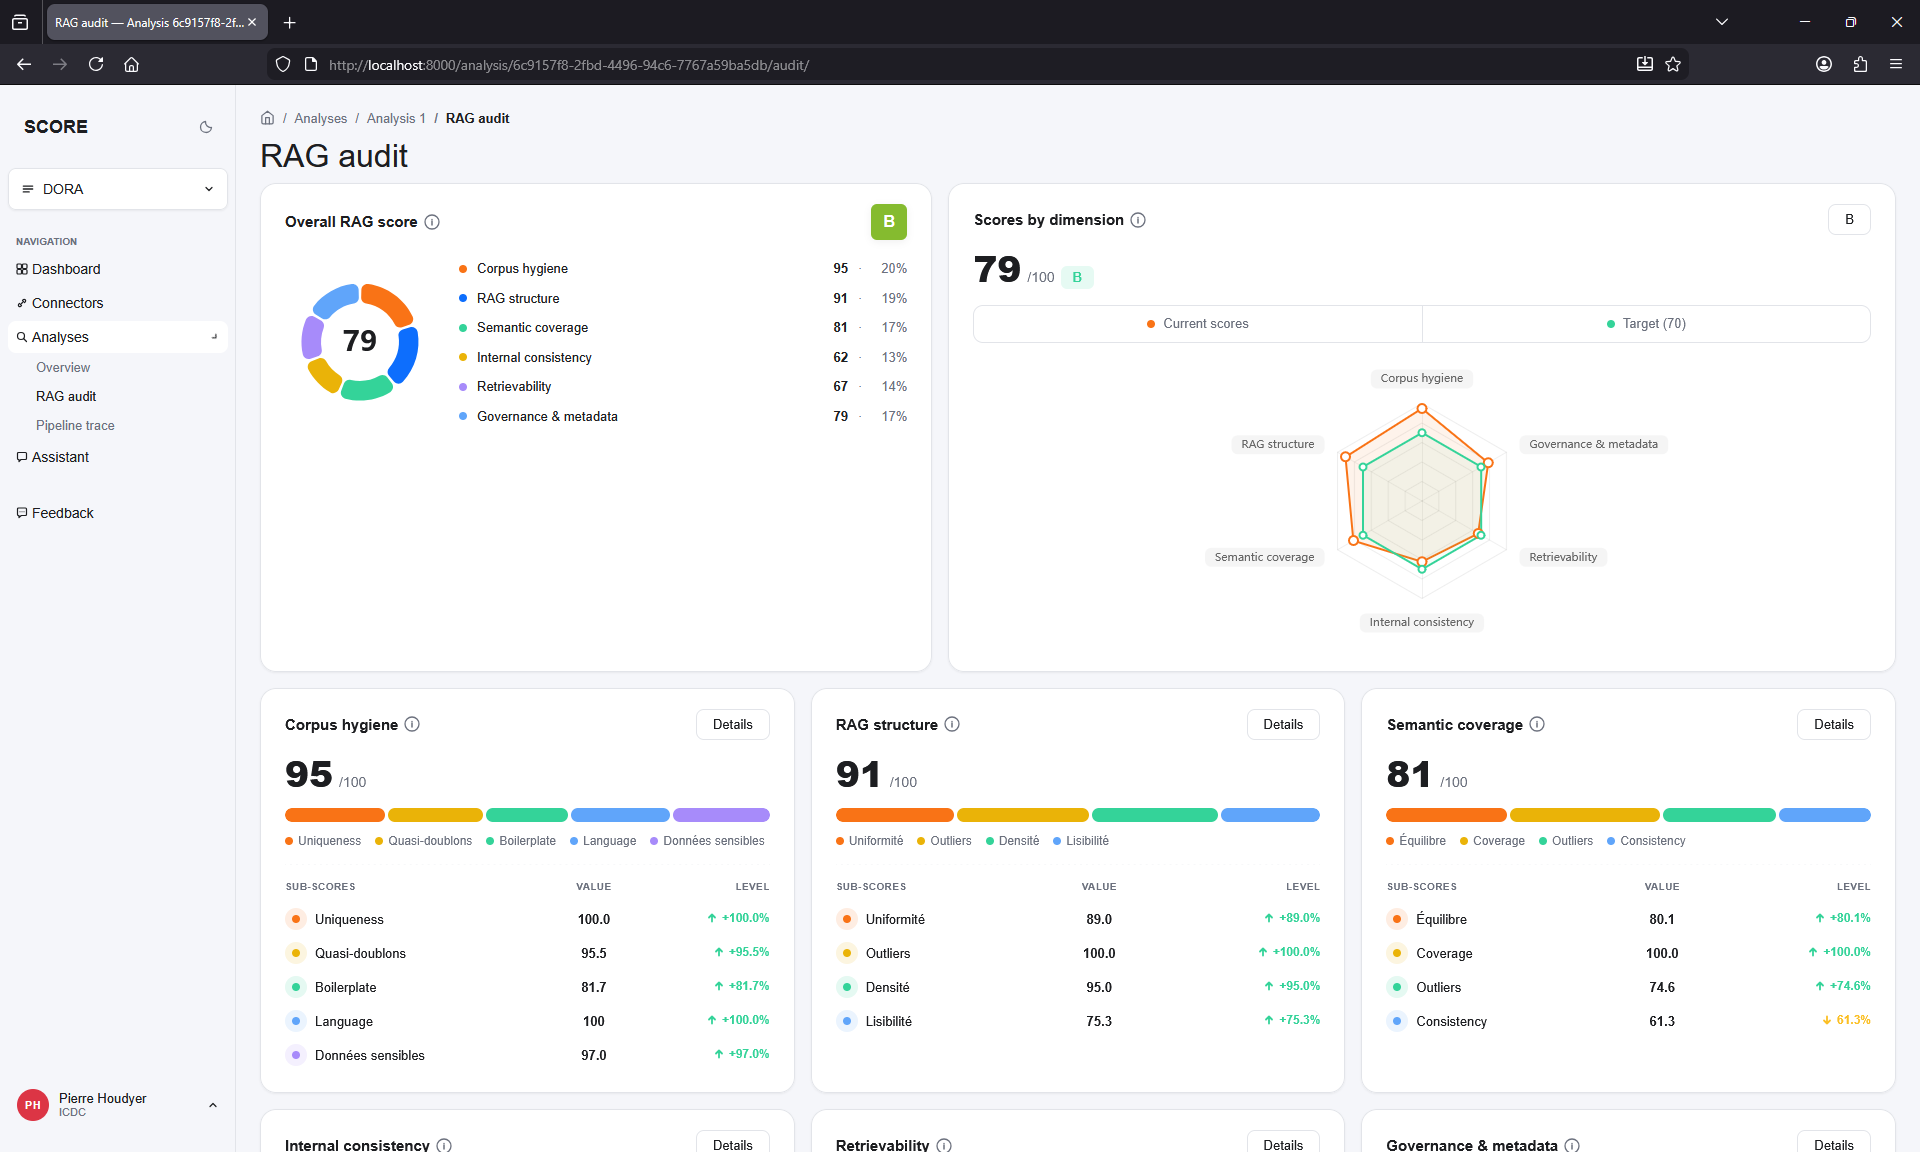
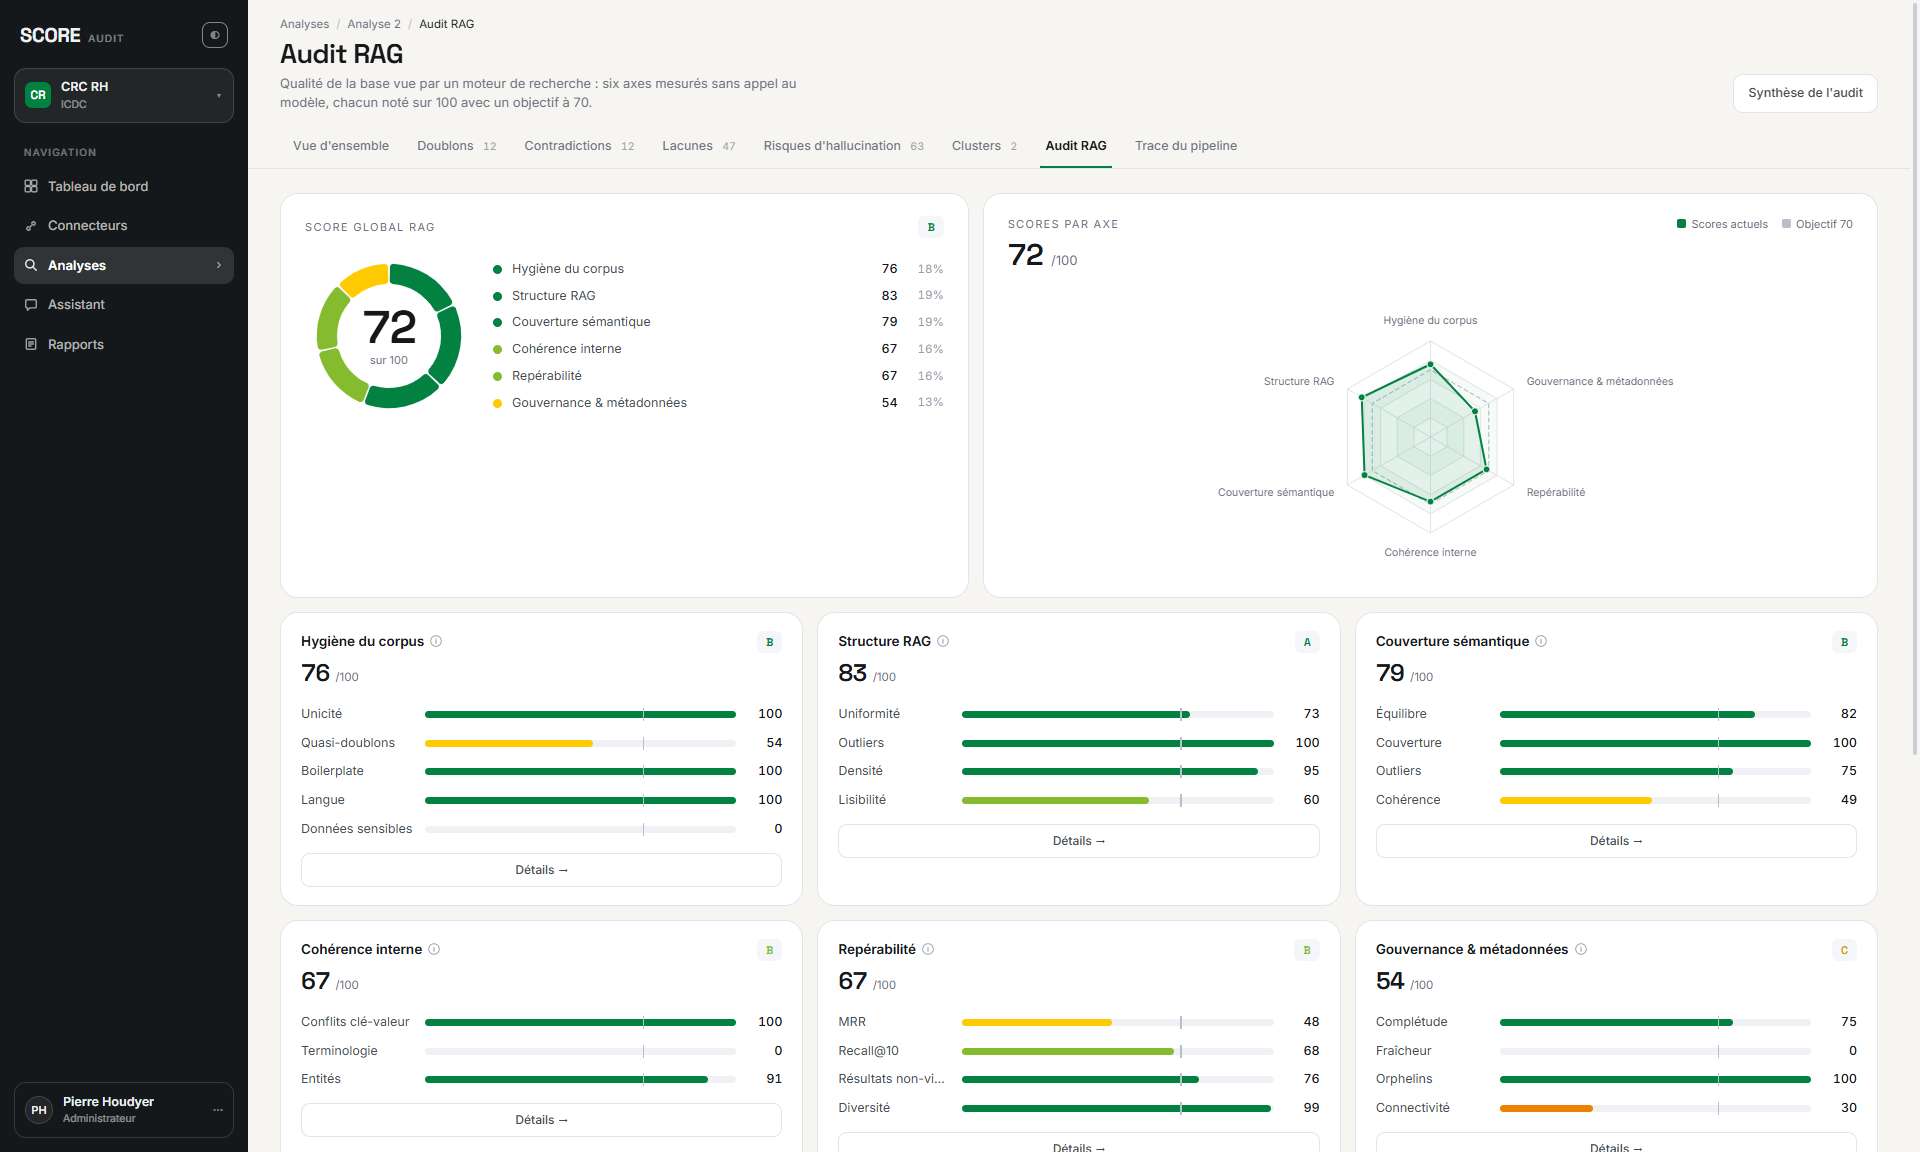
docs: retake the README screenshots on the redesigned interface
The six existing captures predated the Tailwind redesign and showed the
Bootstrap interface, which no longer exists. All are retaken at the same
1920x1152 framing, and a seventh covers the knowledge graph — 6134
entities and 13712 relations on the reference corpus. The one-line
description now names that feature, which until now only appeared as an
unexplained image.

`welcome.png` keeps its slot but shows what replaced the old modal: the
empty project with its setup checklist, and dimensions rendered as dashes
rather than zeros while no analysis has run.

The captures are in French. The interface is bilingual, but the English
catalogue has not been regenerated since the redesign — 32 of the 162
strings in `dashboard/templates` alone are missing from it, so English
currently renders as a mix of both languages. `makemessages` needs
gettext, which is absent from the development machine.

diff --git a/README.md b/README.md
@@ -1,11 +1,11 @@
 # SCORE - _SCORE Curates Organizational Repository for Embeddings_
 
-Enterprise document repository analysis tool. Ingests documents from multiple sources, detects duplicates, extracts claims, finds contradictions, clusters topics, identifies documentation gaps, flags hallucination risks, runs RAG quality audits, and produces a Nutri-Score-style quality grade (A-E).
+Enterprise document repository analysis tool. Ingests documents from multiple sources, detects duplicates, extracts claims, finds contradictions, clusters topics, builds a knowledge graph of named entities and the relations between them, identifies documentation gaps, flags hallucination risks, runs RAG quality audits, and produces a Nutri-Score-style quality grade (A-E).
 
 Built with Django, SQLite + sqlite-vec, Celery, OpenAI/Azure OpenAI, and spaCy.
 
 <p align="center">
-  <img src="docs/assets/welcome.png" alt="Welcome" width="45%" />
+  <img src="docs/assets/welcome.png" alt="Getting started" width="45%" />
   <img src="docs/assets/dashboard.png" alt="Dashboard" width="45%" />
 </p>
 <p align="center">
@@ -13,7 +13,10 @@ Built with Django, SQLite + sqlite-vec, Celery, OpenAI/Azure OpenAI, and spaCy.
   <img src="docs/assets/analysis.png" alt="Analysis" width="45%" />
 </p>
 <p align="center">
+  <img src="docs/assets/knowledge_graph.png" alt="Knowledge graph" width="45%" />
   <img src="docs/assets/rag_audit.png" alt="RAG Audit" width="45%" />
+</p>
+<p align="center">
   <img src="docs/assets/chatbot.png" alt="Chatbot" width="45%" />
 </p>
 
